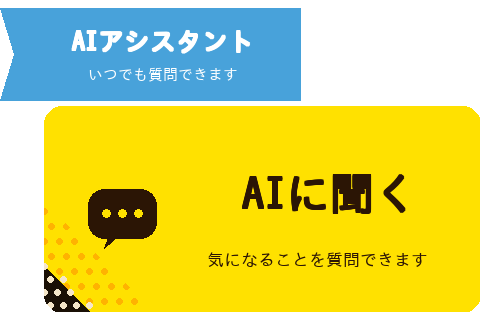
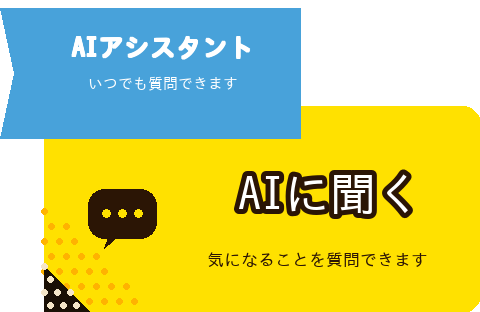
fix(sites/utsunomiya-movenext): AIカードのリボン重なり・透明部分の影・見出し文字を修正
ユーザー指摘3点を修正:

1. リボンとカード本体の間に隙間があり境界線のように見えていた問題 —
   リボンをカード本体に重なるまで拡張（実バナーの「リボンがカードの角に
   被さる」構造に合わせる）
2. カードの透明部分が「ガラスのように」見える問題 — 原因は
   `.__eai-widget-btn` の box-shadow がボタンの矩形ボックス全体に
   影を落としており、画像の透明領域にも影が回り込んでいたため。
   box-shadowを廃止し、画像自身のアルファ形状に沿って影が付く
   `filter: drop-shadow()` に変更（あわせて不要になった
   overflow:hidden/border-radiusも削除）
3. 「AIに聞く」の見出しが単色塗りだったため、実バナーの白抜き+縁取り
   （white knockout）スタイルに合わせてPillowの stroke_width/stroke_fill
   で描画し直し

画像アセット差し替え + ボタンCSSの影実装方式変更のみ。位置・サイズは
#295-#298から変更なし。

diff --git a/sites/utsunomiya-movenext/index.html b/sites/utsunomiya-movenext/index.html
@@ -389,18 +389,23 @@
     width: 240px !important;
     height: auto !important;
     padding: 0 !important;
-    border-radius: 16px !important;
-    overflow: hidden !important;
+    border-radius: 0 !important;
     background: transparent !important;
     border: none !important;
-    box-shadow: 0 4px 16px rgba(0,0,0,.18) !important;
+    box-shadow: none !important;
   }
   .__eai-widget-btn img {
+    /* box-shadow on the button above would shadow the button's rectangular
+       box even where the (transparent) image has no visible pixels, looking
+       like a ghostly glass pane. filter:drop-shadow follows the image's
+       actual alpha shape instead, so only the ribbon/card silhouette casts
+       a shadow. */
     width: 100% !important;
     height: auto !important;
     max-width: none !important;
     max-height: none !important;
     display: block !important;
+    filter: drop-shadow(0 4px 10px rgba(0,0,0,.25)) !important;
   }
   .__eai-widget-panel {
     bottom: 508px !important;
